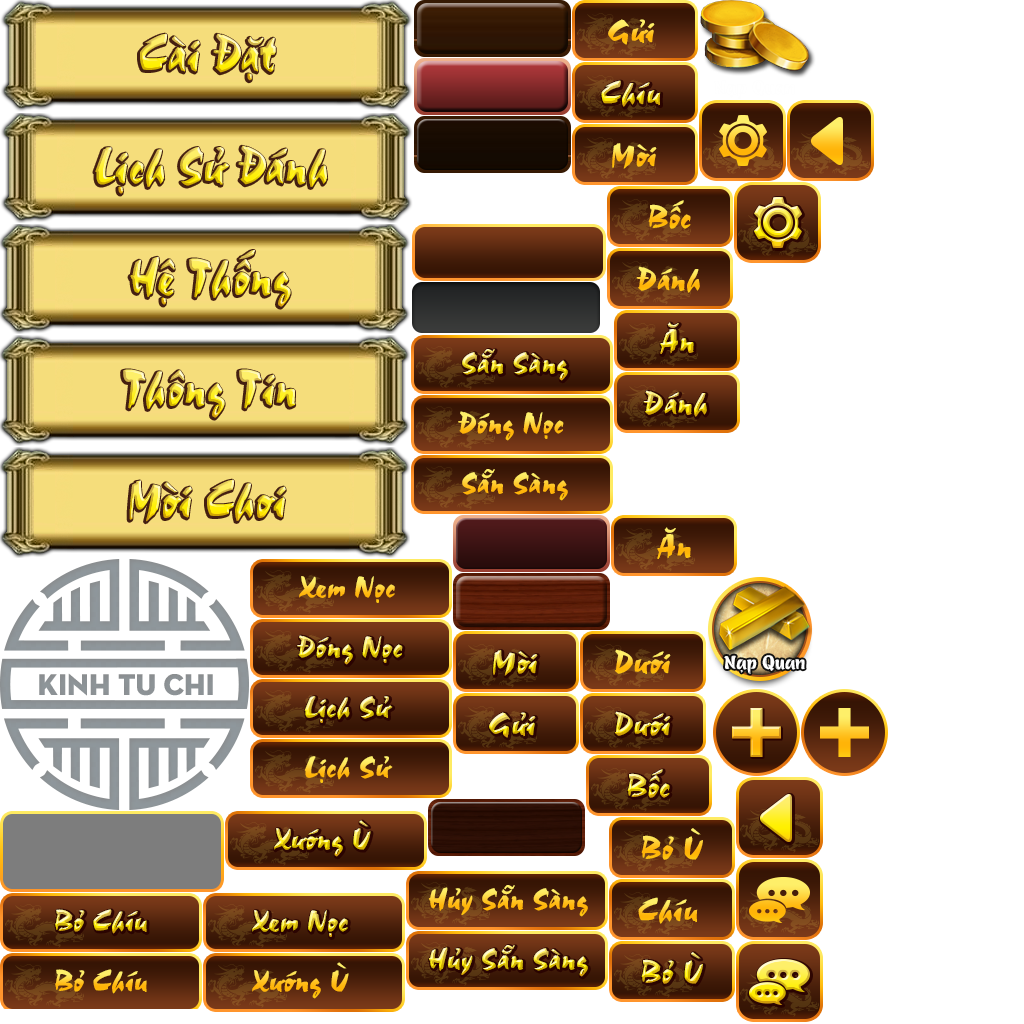
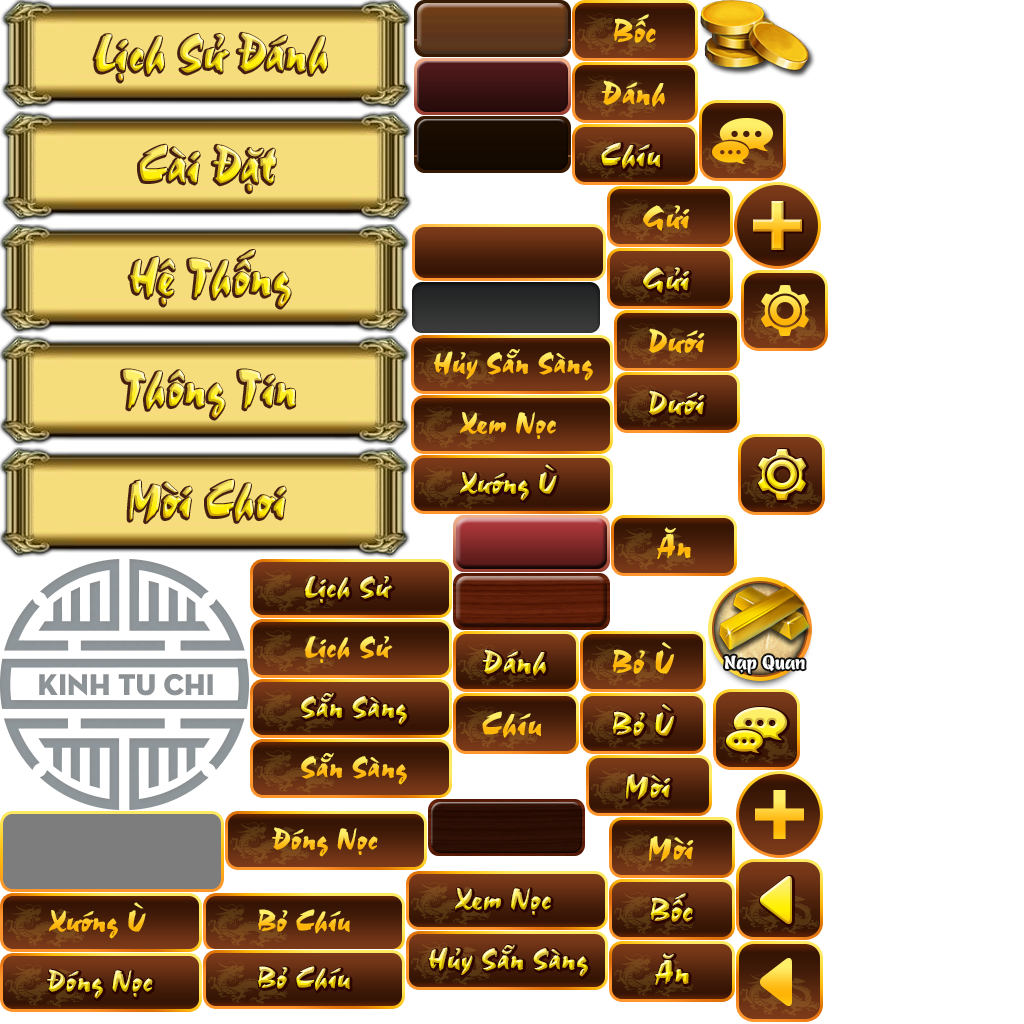
Change image buttons on lobby

diff --git a/Classes/LobbyScene.cpp b/Classes/LobbyScene.cpp
@@ -403,8 +403,10 @@ void LobbyScene::onRoomTypeDataResponse(LobbyListRoomType data)
 			addTouchEventListener(btn, [=]() {
 				if (currentRoomType == btn->getTag()) return;
 				ui::Button* lastBtn = (ui::Button*)scrollListRoom->getChildByTag(currentRoomType);
-				lastBtn->setColor(Color3B::GRAY);
-				btn->setColor(Color3B::WHITE);
+				//lastBtn->setColor(Color3B::GRAY);
+				//btn->setColor(Color3B::WHITE);
+				lastBtn->loadTextureNormal("btn_" + zone + "1.png", ui::Widget::TextureResType::PLIST);
+				btn->loadTextureNormal("btn_" + zone + ".png", ui::Widget::TextureResType::PLIST);
 				currentRoomType = i;
 				Utils::getSingleton().currentLobbyId = data.ListRoomType[i].Id;
 				Utils::getSingleton().currentLobbyName = data.ListRoomType[i].Name;
@@ -417,10 +419,12 @@ void LobbyScene::onRoomTypeDataResponse(LobbyListRoomType data)
 		}
 		btn->setTitleText(data.ListRoomType[i].Description);
 		if (data.ListRoomType[i].Name.compare(currentRoom) != 0) {
-			btn->setColor(Color3B::GRAY);
+			//btn->setColor(Color3B::GRAY);
+			btn->loadTextureNormal("btn_" + zone + "1.png", ui::Widget::TextureResType::PLIST);
 		} else {
 			currentRoomType = i;
-			btn->setColor(Color3B::WHITE);
+			//btn->setColor(Color3B::WHITE);
+			btn->loadTextureNormal("btn_" + zone + ".png", ui::Widget::TextureResType::PLIST);
 			Utils::getSingleton().currentLobbyId = data.ListRoomType[i].Id;
 			Utils::getSingleton().currentLobbyName = data.ListRoomType[i].Name;
 		}
